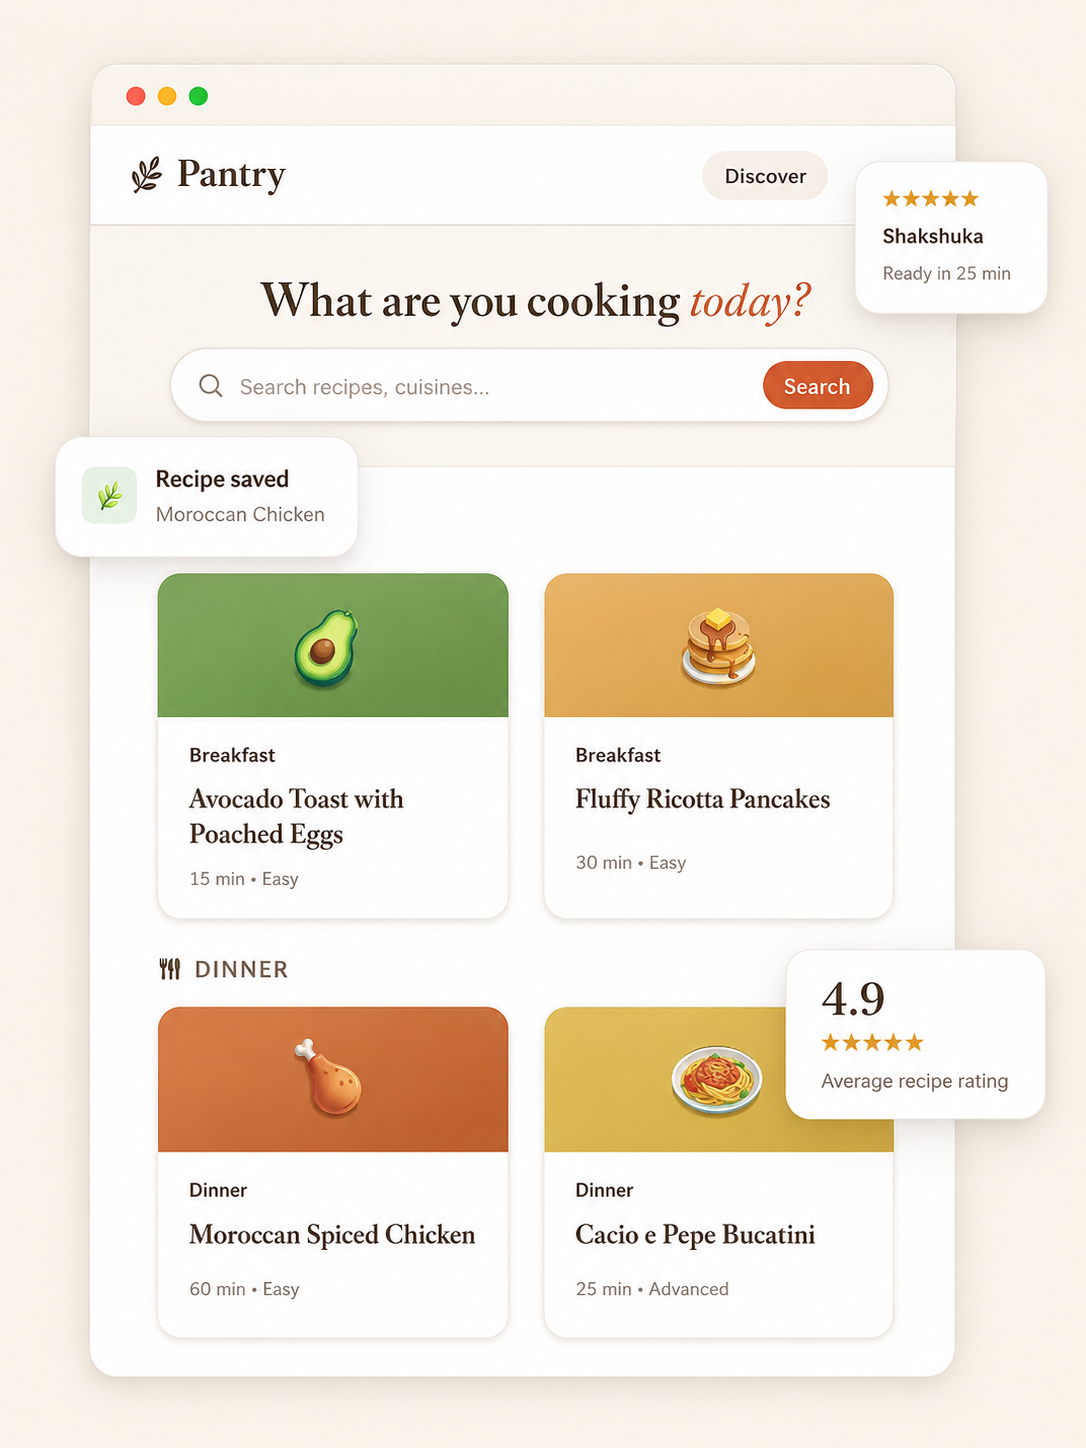
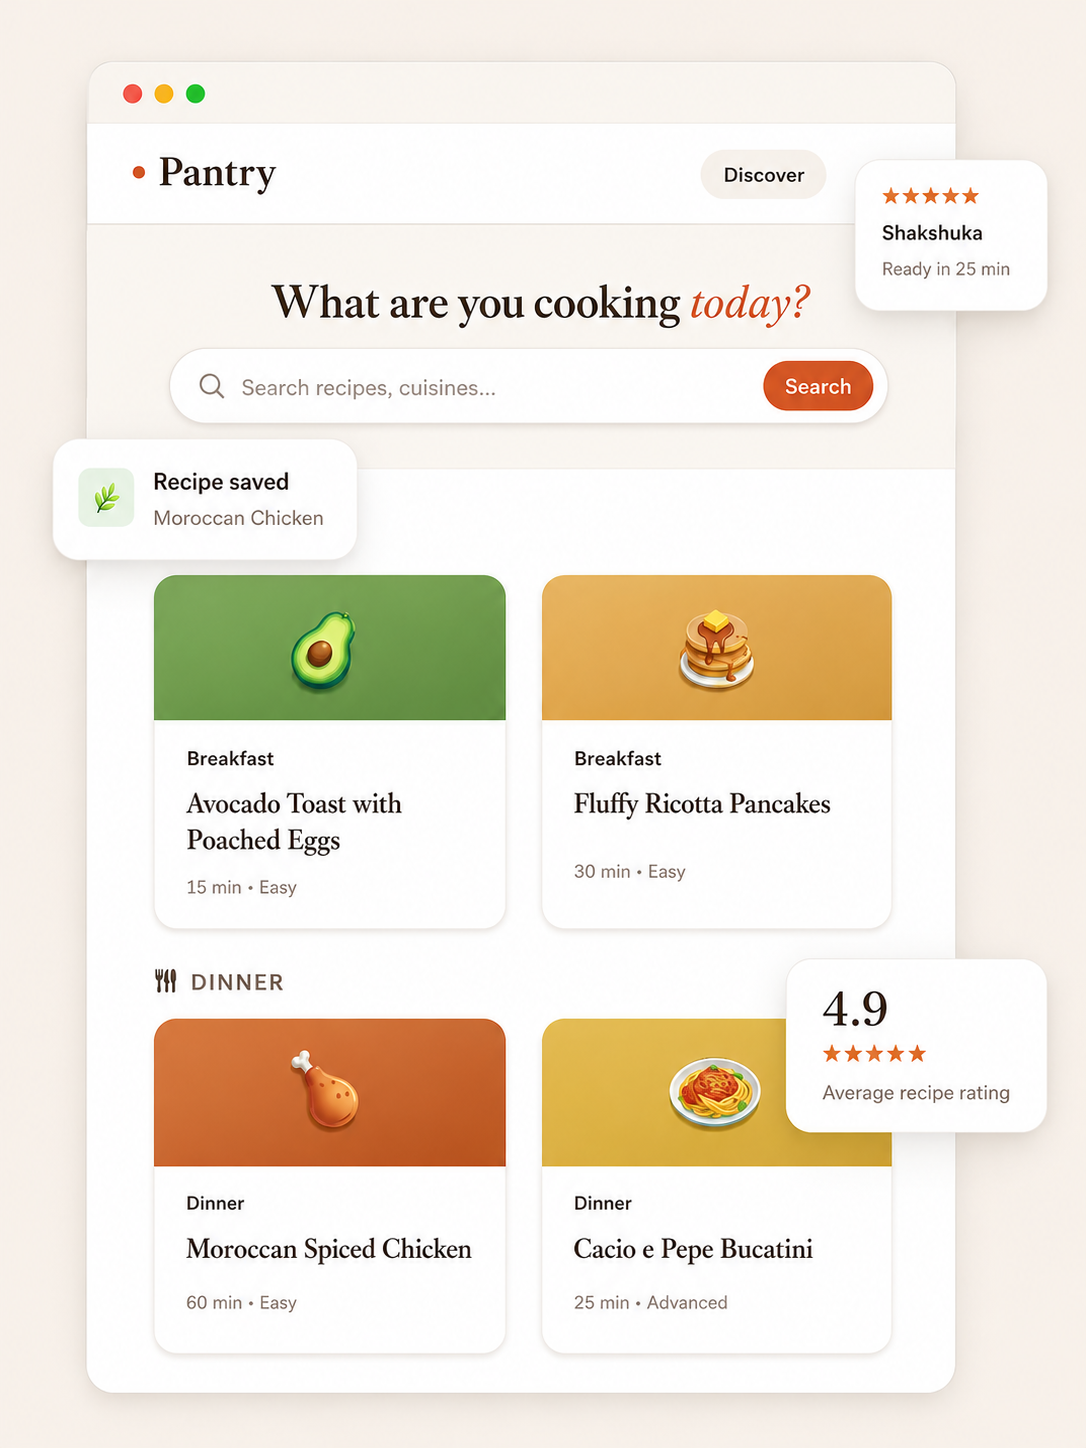
finished features section on landing page

diff --git a/src/pages/Landing.jsx b/src/pages/Landing.jsx
@@ -1,6 +1,7 @@
 import { NavLink } from "react-router-dom";
 import { ChevronRight } from "lucide-react";
 import { Plus } from "lucide-react";
+import { Search } from "lucide-react";
 import personOne from "../assets/images/person1.jpg";
 import personTwo from "../assets/images/person2.jpg";
 import personThree from "../assets/images/person3.jpg";
@@ -12,7 +13,7 @@ export default function Landing() {
     "p-2 rounded-full cursor-pointer text-[var(--primary)] hover:bg-[var(--surface-muted)] transition-colors duration-150";
   return (
     <div className="min-h-screen flex flex-col">
-      <header className="flex p-4 items-center justify-between bg-[var(--background)]">
+      <header className="sticky top-0 z-50 flex p-4 items-center justify-between bg-[var(--background)] shadow-[var(--shadow-bottom)]">
         <NavLink to="/">
           <div className="flex items-center gap-2 cursor-pointer">
             <div className="w-2 h-2 bg-[var(--accent)] rounded-full"></div>
@@ -55,7 +56,7 @@ export default function Landing() {
             <div>
               <div>
                 <h1 className="heading-font font-medium text-5xl">
-                  The cookbook that lives with{" "}
+                  The cookbook that lives with&nbsp;
                   <span className="text-[var(--accent)] font-extralight body-font italic">
                     you.
                   </span>
@@ -99,10 +100,10 @@ export default function Landing() {
                   alt="Smiling reviewer."
                 />
                 <p className="text-sm ml-2 text-[var(--text-muted)]">
-                  Loved by{" "}
+                  Loved by
                   <span className="text-[var(--primary)] font-bold">
                     4,200+
-                  </span>{" "}
+                  </span>
                   home cooks and counting.
                 </p>
               </div>
@@ -112,20 +113,113 @@ export default function Landing() {
             </div>
           </div>
         </section>
-        <section className="bg-[var(--background)]" id="features">
-          <div className="px-8 py-24">
-            <div className="flex flex-col gap-2">
+        <section
+          className="px-10 md:px-20 lg:px-25 xl:px-30 py-24 bg-[var(--background)]"
+          id="features"
+        >
+          <div className="">
+            <div className="flex flex-col">
               <p className="text-[var(--accent)]">SIMPLE BY DESIGN</p>
-              <h2 className="text-4xl heading-font max-w-md">
-                Everything you need,{" "}
-                <span className="font-extralight text-[var(--primary-light)] italic">
+              <h2 className="mt-4 text-5xl heading-font max-w-lg">
+                Everything you need,&nbsp;
+                <span className="block font-extralight text-[var(--primary-light)] italic">
                   nothing you don't.
                 </span>
               </h2>
-              <p className="max-w-lg">
+              <p className="mt-4 max-w-lg text-[var(--text-muted)]">
                 Pantry strips away the clutter. Four things — done exceptionally
-                well.{" "}
+                well.
               </p>
+            </div>
+            <div className=" mt-16 max-w-8xl mx-auto grid grid-cols-1 md:grid-cols-2 xl:grid-cols-4 gap-4 xl:gap-6">
+              <div className="group px-6 py-8 bg-[var(--surface)] shadow[var(--shadow-md)] rounded-md shadow-[var(--shadow-sm)] border border-[var(--border-light)] hover:shadow-[var(--shadow-lg)] hover:-translate-y-2 transition-transform duration-300 ease-in-out">
+                <div className="gap-2 flex items-center">
+                  <p className="heading-font text-[var(--accent)]">01</p>
+                  <hr className="flex-1 text-[var(--accent-soft)]" />
+                </div>
+                <div className="mt-2 w-12 h-12 rounded-md bg-[var(--breakfast)]/30 flex items-center justify-center">
+                  <Search
+                    size={24}
+                    className="text-[var(--breakfast)]"
+                    strokeWidth={1.75}
+                  />
+                </div>
+                <div className="mt-4">
+                  <p className="heading-font text-xl">Discover recipes</p>
+                  <p className="mt-1 text-[var(--text-muted)] text-sm group-hover:text-[var(--primary)] transition-colors duration-200">
+                    Browse thousands of curated recipes organised by Breakfast,
+                    Lunch, Dinner, Dessert and Snacks. Search by ingredient or
+                    cuisine.
+                  </p>
+                </div>
+              </div>
+              <div className="group  px-6 py-8 bg-[var(--surface)] shadow[var(--shadow-md)] rounded-md shadow-[var(--shadow-sm)] border border-[var(--border-light)] hover:shadow-[var(--shadow-lg)] hover:-translate-y-2 transition-transform duration-300 ease-in-out">
+                <div className="gap-2 flex items-center">
+                  <p className="heading-font text-[var(--accent)]">02</p>
+                  <hr className="flex-1 text-[var(--accent-soft)]" />
+                </div>
+                <div className="mt-2 w-12 h-12 rounded-md bg-[var(--dessert)]/30 flex items-center justify-center">
+                  <Search
+                    size={24}
+                    className="text-[var(--dessert)]"
+                    strokeWidth={1.75}
+                  />
+                </div>
+                <div className="mt-4">
+                  <p className="heading-font text-xl">
+                    Save links from the web
+                  </p>
+                  <p className="mt-1 text-[var(--text-muted)] text-sm group-hover:text-[var(--primary)] transition-colors duration-200">
+                    Found a recipe on Serious Eats or Half Baked Harvest? Save
+                    the link with your own notes and category — all in one
+                    place.
+                  </p>
+                </div>
+              </div>
+              <div className="group  px-6 py-8 bg-[var(--surface)] shadow[var(--shadow-md)] rounded-md shadow-[var(--shadow-sm)] border border-[var(--border-light)] hover:shadow-[var(--shadow-lg)] hover:-translate-y-2 transition-transform duration-300 ease-in-out">
+                <div className="gap-2 flex items-center">
+                  <p className="heading-font text-[var(--accent)]">03</p>
+                  <hr className="flex-1 text-[var(--accent-soft)]" />
+                </div>
+                <div className="mt-2 w-12 h-12 rounded-md bg-[var(--dinner)]/30 flex items-center justify-center">
+                  <Search
+                    size={24}
+                    className="text-[var(--dinner)]"
+                    strokeWidth={1.75}
+                  />
+                </div>
+                <div className="mt-4">
+                  <p className="heading-font text-xl">
+                    Create your own recipes
+                  </p>
+                  <p className="mt-1 text-[var(--text-muted)] text-sm group-hover:text-[var(--primary)] transition-colors duration-200">
+                    Write recipes from scratch with ingredients, step-by-step
+                    instructions, prep times, and personal notes. Your family
+                    recipes, finally preserved.
+                  </p>
+                </div>
+              </div>
+              <div className="group  px-6 py-8 bg-[var(--surface)] shadow[var(--shadow-md)] rounded-md shadow-[var(--shadow-sm)] border border-[var(--border-light)] hover:shadow-[var(--shadow-lg)] hover:-translate-y-2 transition-transform duration-300 ease-in-out">
+                <div className="gap-2 flex items-center">
+                  <p className="heading-font text-[var(--accent)]">04</p>
+                  <hr className="flex-1 text-[var(--accent-soft)]" />
+                </div>
+                <div className="mt-2 w-12 h-12 rounded-md bg-[var(--lunch)]/30 flex items-center justify-center">
+                  <Search
+                    size={24}
+                    className="text-[var(--lunch)]"
+                    strokeWidth={1.75}
+                  />
+                </div>
+                <div className="mt-4">
+                  <p className="heading-font text-xl">Discover recipes</p>
+                  <p className="mt-1 text-[var(--text-muted)] text-sm group-hover:text-[var(--primary)] transition-colors duration-200">
+                    Browse thousands of curated recipes organised by Breakfast,
+                    Lunch, Dinner, Dessert and Snacks. Search by ingredient or
+                    cuisine.
+                  </p>
+                </div>
+              </div>
             </div>
           </div>
         </section>

diff --git a/src/index.css b/src/index.css
@@ -53,6 +53,7 @@
   --shadow-sm: 0 2px 8px rgba(74, 55, 40, 0.06);
   --shadow-md: 0 8px 24px rgba(74, 55, 40, 0.1);
   --shadow-lg: 0 18px 45px rgba(74, 55, 40, 0.14);
+  --shadow-bottom: 0 4px 8px rgba(74, 55, 40, 0.08);
 
   /* Layout */
   --header-height: 80px;